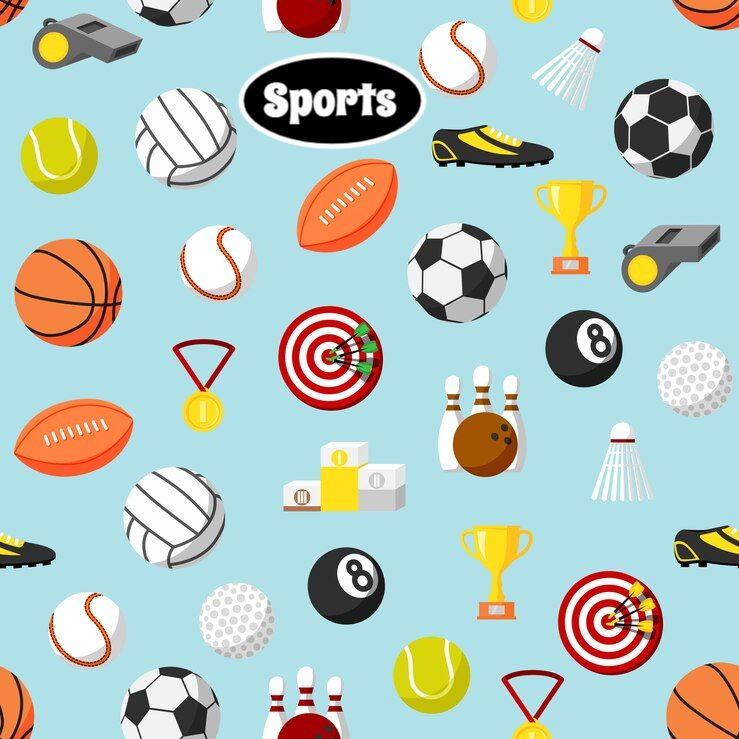
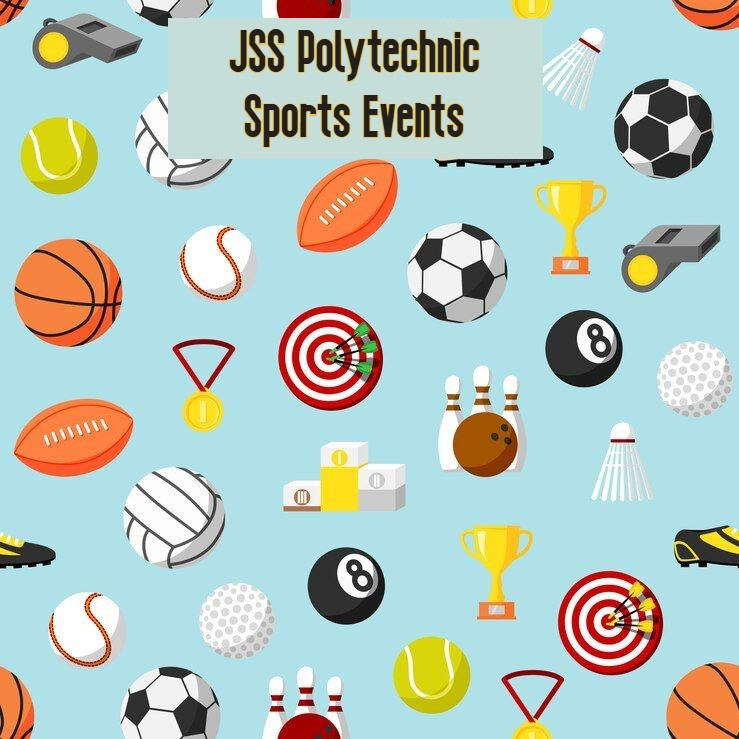
FrontEnd : Modified index.html code and Updated Home, Login, Navbar, RegisteredEvents Components.

diff --git a/event-ticketing-app/src/Components/Home.js b/event-ticketing-app/src/Components/Home.js
@@ -17,34 +17,16 @@ import CloseIcon from "@mui/icons-material/Close";
 
 const items = [
   {
-    img: `${process.env.PUBLIC_URL}/Movies.jpg`,
-    title: "Cinema Under the Stars",
-    description:
-      "Join us for an unforgettable outdoor movie experience featuring classic and contemporary films. Enjoy a cozy atmosphere with friends and family, along with delicious snacks under the starry sky.",
-  },
-  {
-    img: `${process.env.PUBLIC_URL}/Plays.jpg`,
-    title: "Theater of Dreams",
-    description:
-      "Immerse yourself in captivating performances with our selection of theatrical productions. From timeless classics to modern masterpieces, experience the magic of live theater with talented actors on stage.",
-  },
-  {
-    img: `${process.env.PUBLIC_URL}/Events.jpg`,
-    title: "Community Connect",
-    description:
-      "Be a part of our vibrant community events, where connections are made and memories are created. Join us for workshops, festivals, and gatherings that celebrate culture, creativity, and togetherness.",
-  },
-  {
-    img: `${process.env.PUBLIC_URL}/Activities.jpg`,
-    title: "Adventure Awaits",
-    description:
-      "Explore exciting activities for all ages, from thrilling outdoor adventures to creative workshops. Whether you're seeking adrenaline or artistry, there's something for everyone to enjoy!",
-  },
-  {
     img: `${process.env.PUBLIC_URL}/Sports.jpg`,
-    title: "Game On!",
+    title: "JSS Polytechnic Sports",
     description:
       "Get ready for action-packed sports events featuring local teams and thrilling competitions. Cheer for your favorites and experience the excitement of live sports, from football to basketball and more!",
+  },
+  {
+    img: `${process.env.PUBLIC_URL}/Events.png`,
+    title: "JSS Polytechnic Cultural Events",
+    description:
+      "Be a part of our vibrant cultural events, where connections are made and memories are created. Join us for workshops, festivals, and gatherings that celebrate culture, creativity, and togetherness.",
   },
 ];
 
@@ -93,6 +75,7 @@ const Home = () => {
         <Navbar />
       </header>
 
+      {/* Carousel Section */}
       <Box sx={{ padding: 2 }}>
         <Carousel
           autoPlay
@@ -146,6 +129,7 @@ const Home = () => {
         </Carousel>
       </Box>
 
+      {/* Events Section */}
       <Box sx={{ padding: 2, backgroundColor: "#181C14", color: "white" }}>
         <Typography variant="h4" sx={{ marginBottom: 2 }}>
           All Events

diff --git a/event-ticketing-app/src/Components/Navbar.js b/event-ticketing-app/src/Components/Navbar.js
@@ -45,7 +45,7 @@ const StyledButton = styled(Button)({
 const LogoContainer = styled("div")({
   display: "flex",
   alignItems: "center",
-  marginRight: "50em",
+  marginRight: "48em",
 });
 
 // Optional: Create a styled drawer component
@@ -99,10 +99,10 @@ const Navbar = () => {
           <img
             src={`${process.env.PUBLIC_URL}/ticket.gif`}
             alt="Logo"
-            style={{ width: 40, marginRight: 4 }}
+            style={{ width: 40 }}
           />
           <Typography variant="h6" style={{ margin: 0 }}>
-            Event Ticketing
+            Event Registration
           </Typography>
         </LogoContainer>
 
@@ -123,9 +123,7 @@ const Navbar = () => {
             {/* Home link - for both Admin and Student */}
             <ListItem
               button
-              onClick={() =>
-                navigate(role === "admin" ? "/home" : "/Student-Home")
-              }
+              onClick={() => navigate(role === "admin" ? "/home" : "/home")}
               sx={{ pr: 7 }}
             >
               <ListItemIcon>
@@ -178,6 +176,20 @@ const Navbar = () => {
                   <ListItemText primary="Student Management" />
                 </ListItem>
               </>
+            )}
+
+            {/* Show this for Student only */}
+            {role === "student" && (
+              <ListItem
+                button
+                onClick={() => navigate("/Student-Home")}
+                sx={{ pr: 7 }}
+              >
+                <ListItemIcon>
+                  <EventNoteIcon />
+                </ListItemIcon>
+                <ListItemText primary="Events" />
+              </ListItem>
             )}
 
             {/* Register Events - Visible to both Admin and Student */}

diff --git a/event-ticketing-app/src/Components/RegisteredEvents.js b/event-ticketing-app/src/Components/RegisteredEvents.js
@@ -146,7 +146,7 @@ const RegisteredEvents = () => {
                     <strong>Description</strong>
                   </TableCell>
                   <TableCell>
-                    <strong>Date & Time</strong>
+                    <strong>Event Date & Time</strong>
                   </TableCell>
                   <TableCell>
                     <strong>Organizer</strong>

diff --git a/event-ticketing-app/src/Components/Login.js b/event-ticketing-app/src/Components/Login.js
@@ -61,7 +61,7 @@ const Login = () => {
         setSnackbarMessage("Login successful!");
         setSnackbarSeverity("success");
         setOpenSnackbar(true);
-        navigate("/Student-Home");
+        navigate("/home");
       } catch (error) {
         // If both login attempts fail, show an error message
         setSnackbarMessage("Invalid email or password.");

diff --git a/event-ticketing-app/public/index.html b/event-ticketing-app/public/index.html
@@ -23,7 +23,7 @@
       work correctly both with client-side routing and a non-root public URL.
       Learn how to configure a non-root public URL by running `npm run build`.
     -->
-    <title>Event Ticketing app</title>
+    <title>Event Registration</title>
   </head>
   <body>
     <noscript>You need to enable JavaScript to run this app.</noscript>
